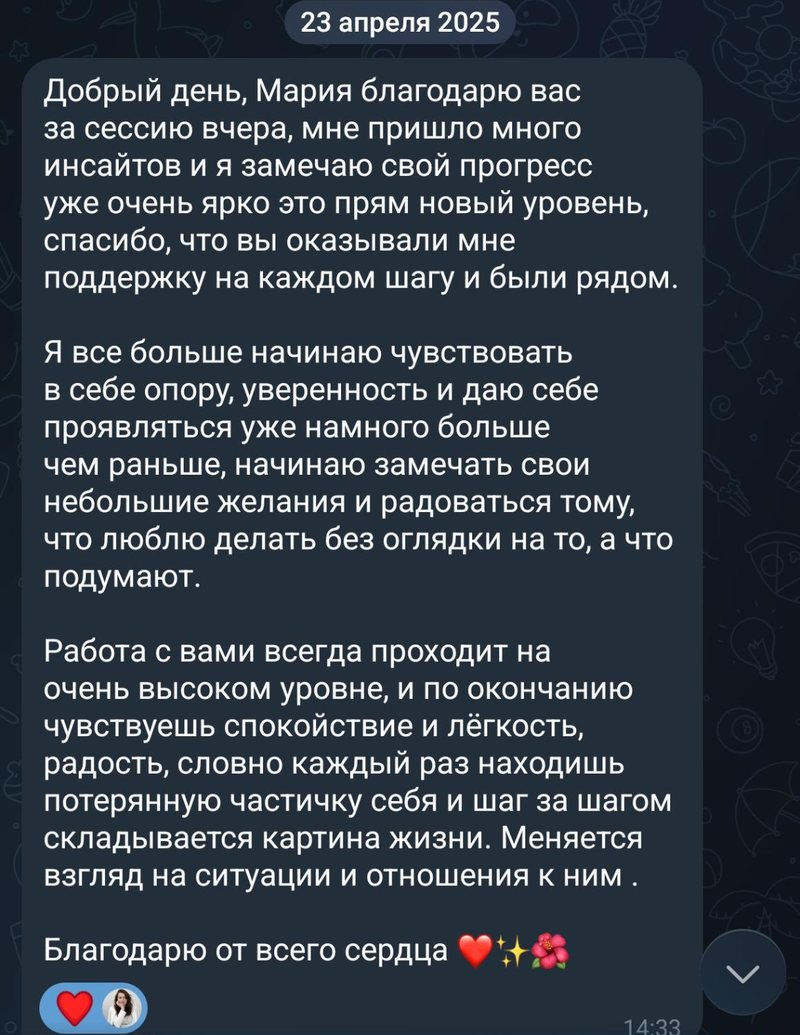
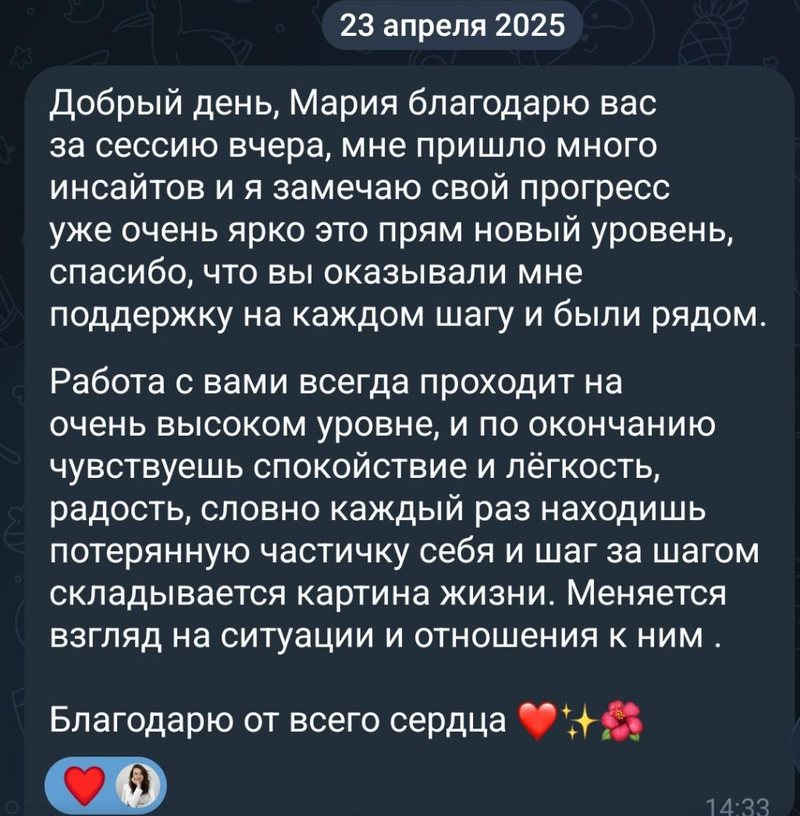
Сайт: отзыв Карины короче
Claude-Session: https://claude.ai/code/session_01GpYQZRDvZB3xLnCYkehKYR

diff --git a/index.html b/index.html
@@ -438,7 +438,7 @@ footer{padding:26px 0 34px;color:var(--muted);font-size:13px;text-align:center}
       <div class="car">
         <div class="track" id="track">
           <div class="rev shot"><a href="img/otzyvy/tatyana.jpg" target="_blank" rel="noopener"><img src="img/otzyvy/tatyana.jpg" alt="Отзыв: личная жизнь" loading="lazy" width="800" height="704"></a><small>Консультация · личная жизнь</small></div>
-          <div class="rev shot"><a href="img/otzyvy/karina.jpg" target="_blank" rel="noopener"><img src="img/otzyvy/karina.jpg" alt="Отзыв: Карина · сессия" loading="lazy" width="800" height="1035"></a><small>Карина · сессия</small></div>
+          <div class="rev shot"><a href="img/otzyvy/karina.jpg?v=2" target="_blank" rel="noopener"><img src="img/otzyvy/karina.jpg?v=2" alt="Отзыв: Карина · сессия" loading="lazy" width="800" height="816"></a><small>Карина · сессия</small></div>
           <div class="rev shot"><a href="img/otzyvy/diana.jpg" target="_blank" rel="noopener"><img src="img/otzyvy/diana.jpg" alt="Отзыв: Діана · разбор карты" loading="lazy" width="800" height="618"></a><small>Діана · разбор карты</small></div>
           <div class="rev shot"><a href="img/otzyvy/ig1.jpg" target="_blank" rel="noopener"><img src="img/otzyvy/ig1.jpg" alt="Отзыв: Отзыв в Instagram · прогноз" loading="lazy" width="800" height="556"></a><small>Отзыв в Instagram · прогноз</small></div>
           <div class="rev shot"><a href="img/otzyvy/ig2.jpg" target="_blank" rel="noopener"><img src="img/otzyvy/ig2.jpg" alt="Отзыв: Отзыв в Instagram · разбор карты и прогноз на год" loading="lazy" width="800" height="538"></a><small>Отзыв в Instagram · разбор карты и прогноз на год</small></div>
